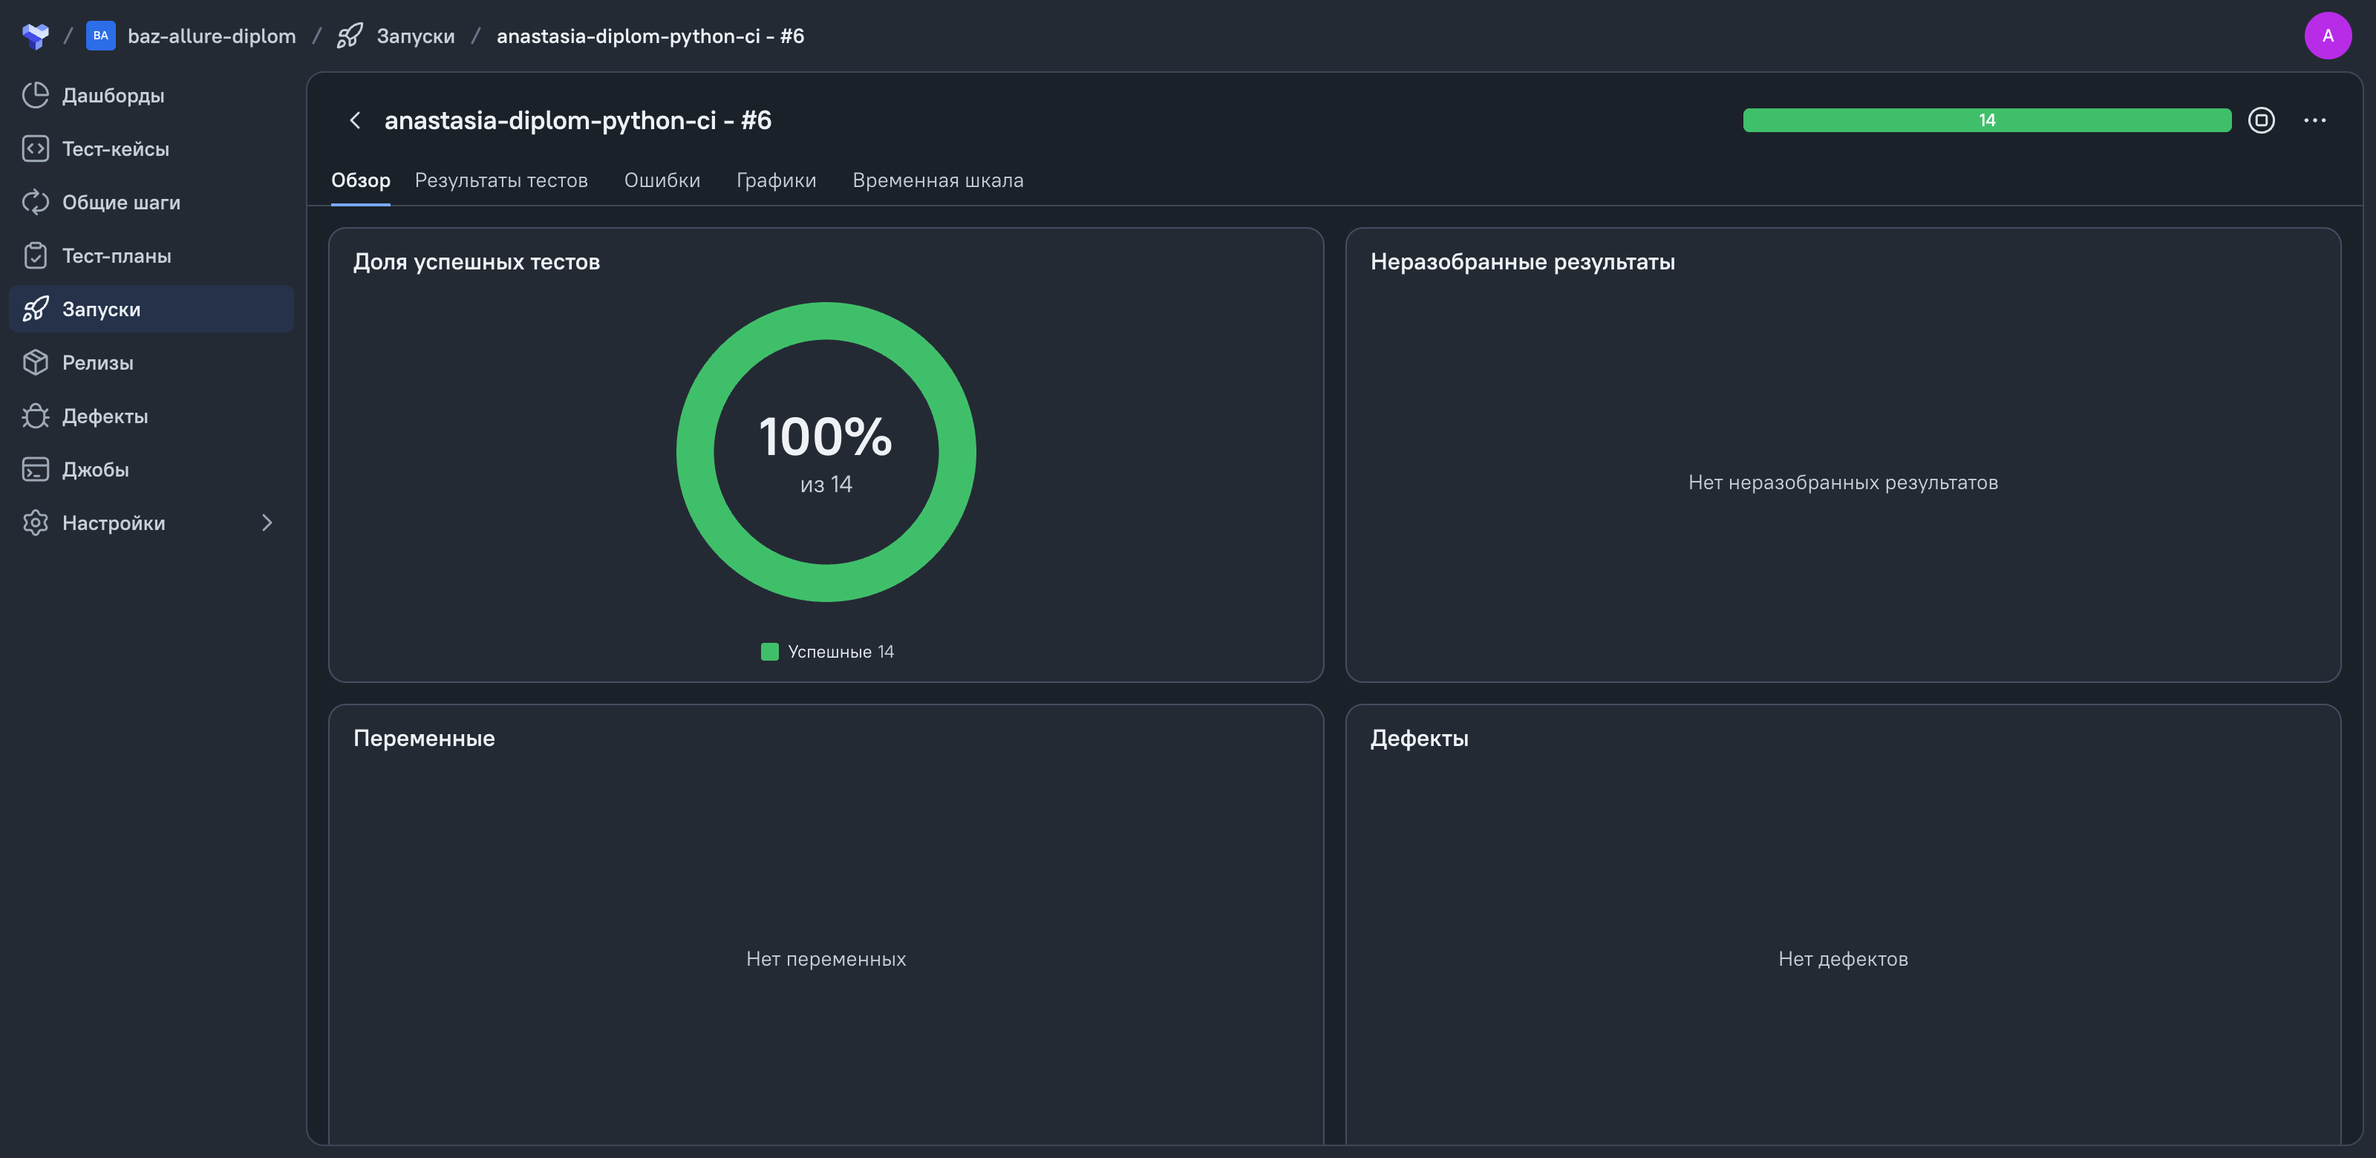
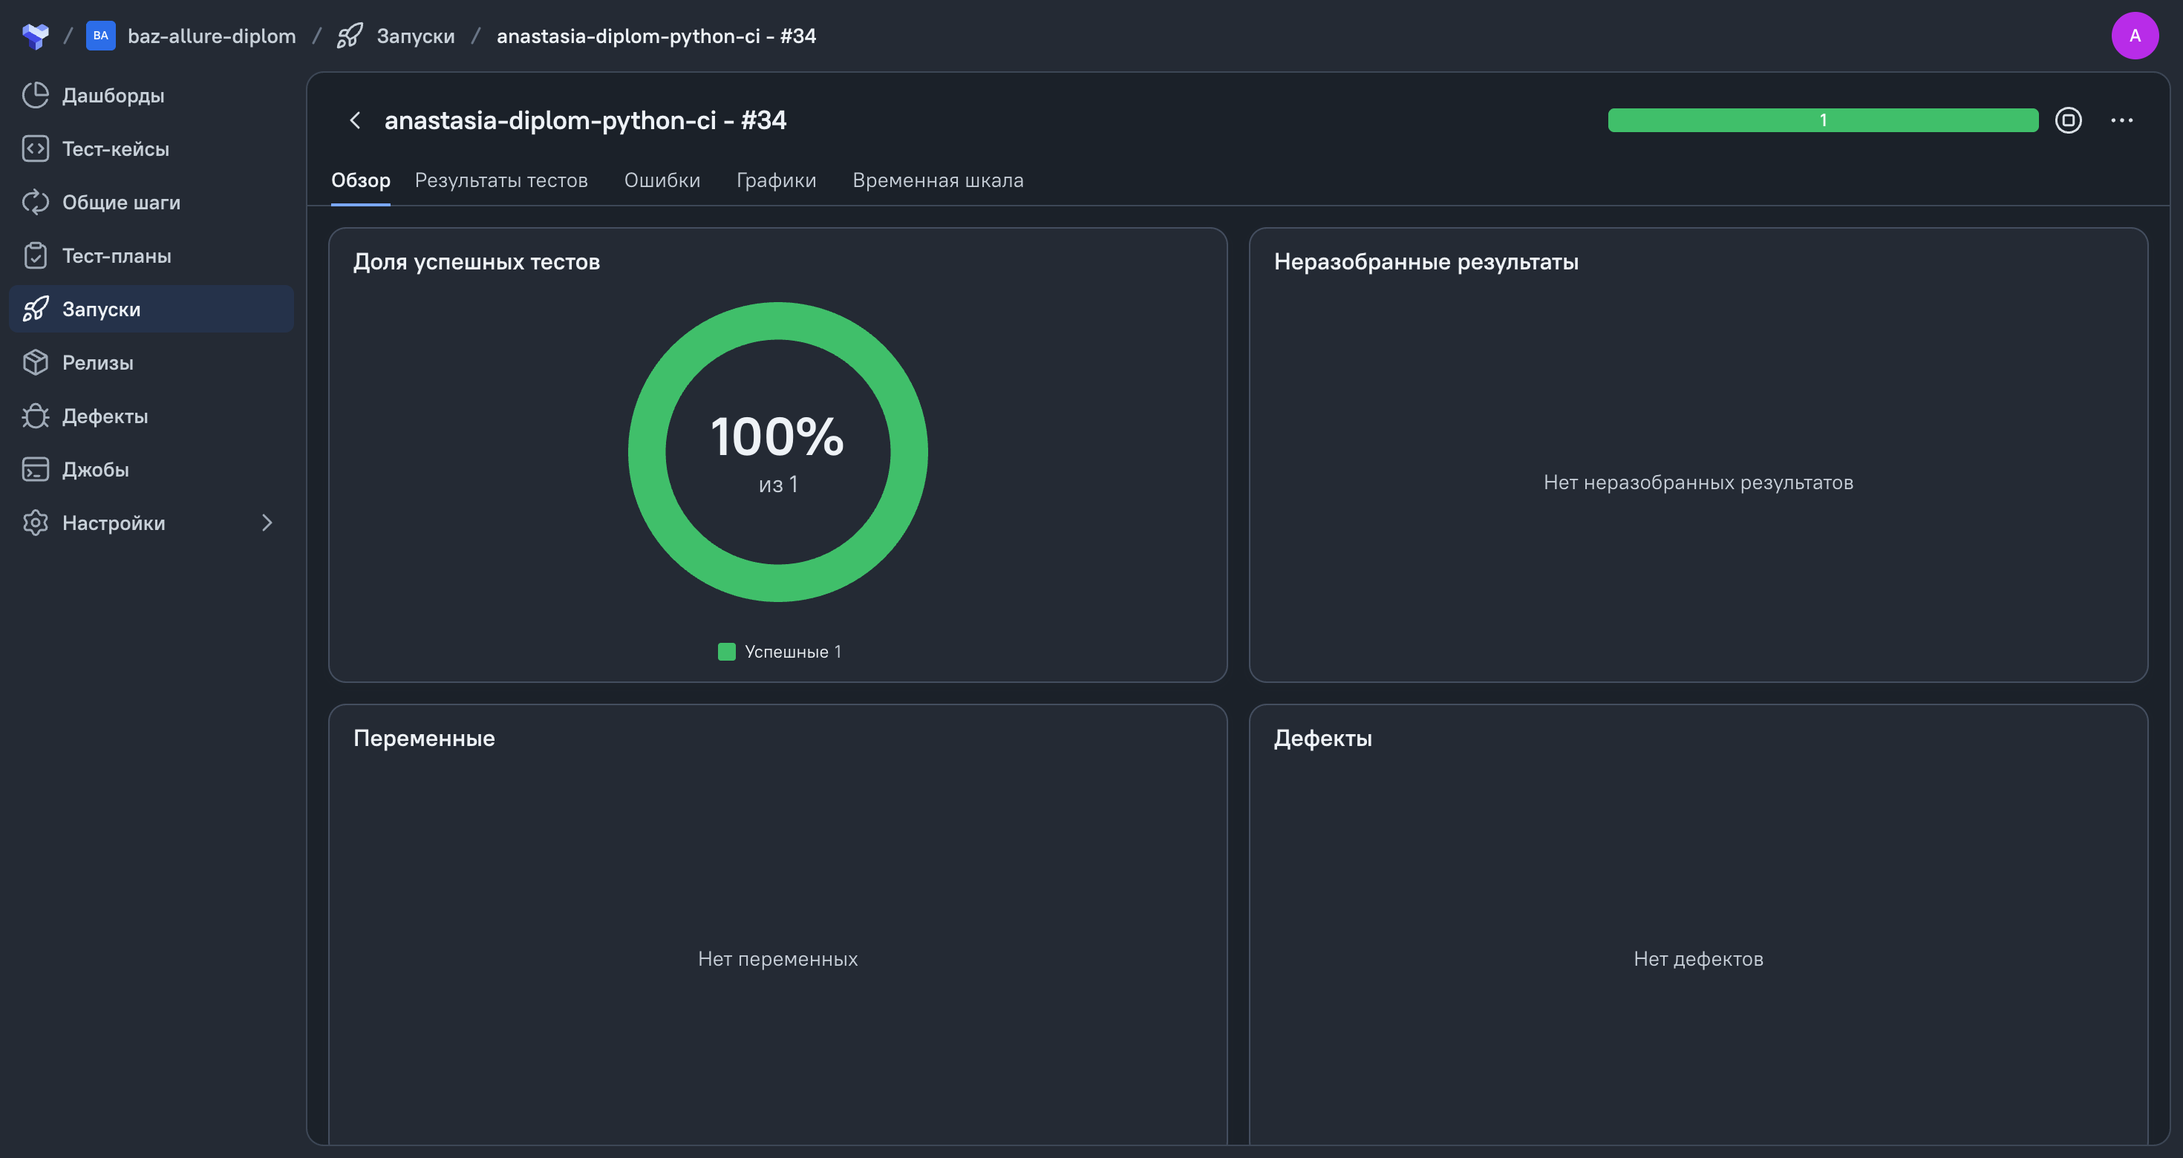
docs: refresh README and TestOps screenshots for Jenkins build 34

diff --git a/README.md b/README.md
@@ -2,8 +2,6 @@
 
 Автотесты интернет-магазина **Automation Exercise** и Android-приложения **Wikipedia sample**: 8 UI-, 6 API- и 3 Mobile-сценария. Используются Page Objects, подготовка пользователя через API, модели Pydantic и отчётность Allure.
 
-[Результаты и ограничения](#status)
-
 <p align="center">
   <img src="docs/images/tech/python.svg" width="44" height="44" alt="Python" title="Python"> 
   <img src="docs/images/tech/pytest.svg" width="44" height="44" alt="pytest" title="pytest"> 
@@ -69,9 +67,7 @@
 
 ## Как связаны API и UI
 
-Фикстура создаёт уникального пользователя через API; Page Object выполняет UI-вход и проверяет имя. После теста аккаунт удаляется, его отсутствие подтверждается независимым запросом по email. [Подробности очистки →](docs/running.md#api-checks)
-
-Pydantic-модели формируют тела запросов и проверяют ответы. HTTP-статус и бизнес-код проверяются отдельно; цены сравниваются через `Decimal`. Каждый тест использует отдельную сессию браузера или HTTP-клиента.
+Пользователь создаётся через API, затем Page Object выполняет UI-вход. После закрытия браузера аккаунт удаляется, его отсутствие проверяется по email. Pydantic проверяет структуру ответов; цены сравниваются через `Decimal`. [Подробности →](docs/running.md#api-checks)
 
 <a id="run"></a>
 
@@ -86,8 +82,7 @@ mkdir -p .tmp
 .venv/bin/python -m pip check
 ```
 
-Для разработки установите `requirements-dev.txt`: в нём закреплены Ruff, mypy,
-pre-commit и их зависимости. [Установка Git-hook и проверки качества →](docs/running.md#quality)
+[Зависимости для разработки и проверки качества →](docs/running.md#quality)
 
 **UI — локальный Chrome, 8 тестов:**
 
@@ -114,19 +109,7 @@ RUN_DIR=".artifacts/runs/mobile-$(date -u +%Y%m%dT%H%M%S)"
 
 API и локальный UI работают без `.env`. Для Selenoid и BrowserStack заполните корневой `.env` по образцу [.env.example](.env.example). Для Mobile нужен APK, заранее загруженный в App Automate. [Настройка BrowserStack →](docs/running.md#mobile-browserstack)
 
-**Все 17 сценариев в одном отчёте — локальный UI, API и BrowserStack:**
-
-```bash
-RUN_DIR=".artifacts/runs/full-$(date -u +%Y%m%dT%H%M%S)"
-mkdir -p "$RUN_DIR"
-.venv/bin/python -m pytest tests mobile --ui-mode=local -v \
-  --alluredir="$RUN_DIR/allure-results" --junitxml="$RUN_DIR/junit.xml" \
-  --log-file="$RUN_DIR/run.log"
-```
-
-Технические проверки обработки ошибок и отчётности запускаются командой `.venv/bin/python -B -m pytest checks -q`. Они работают без сети и не входят в 17 продуктовых сценариев.
-
-[Подробная настройка, общий запуск 14 тестов, Selenoid и команды Allure →](docs/running.md)
+[Настройка Jenkins и Selenoid, команды Allure →](docs/running.md)
 
 <a id="reporting"></a>
 
@@ -150,26 +133,28 @@ Allure содержит группы UI/API/Mobile, шаги, скриншоты
 
 ### Jenkins, Allure Report и TestOps
 
-[Задача Jenkins](https://jenkins.qa.guru/job/anastasia-diplom-python-ci/) предназначена для 8 UI-тестов через Selenoid и 6 API-тестов. [Сборка №9](https://jenkins.qa.guru/job/anastasia-diplom-python-ci/9/) от 13.11.2026 передала **14 успешных результатов** в [TestOps #57241](https://allure.qa.guru/launch/57241). Её коммит не подтверждён; этот запуск не считается проверкой текущей версии репозитория.
+[Задача Jenkins](https://jenkins.qa.guru/job/anastasia-diplom-python-ci/) поддерживает запуск 8 UI-тестов через Selenoid и 6 API-тестов; Mobile запускается отдельно. В [сборке №34](https://jenkins.qa.guru/job/anastasia-diplom-python-ci/34/) от **18.11.2026** выполнен только **UI-07: 1 passed, 15,06 с** на коммите [`c60a60d`](https://github.com/abzva/diplom_qa_python/commit/c60a60d568fc45e640c8103499b9d0ae3bc08368), Python **3.14.4**, Chrome **158.0.8127.36**.
 
-На учебном TestOps срок хранения успешных сценариев, фикстур и вложений — 24 часа; очистка применяется к закрытым запускам. Для длительного хранения сохраняйте исходные результаты и Allure Report отдельно. [Настройки отчётности →](docs/running.md#allure-report-и-testops)
+[Allure Report №34](https://jenkins.qa.guru/job/anastasia-diplom-python-ci/34/allure/) · [TestOps #57387](https://allure.qa.guru/launch/57387): три основных шага UI-07 и девять вложений, включая скриншот и видео.
 
-Ниже — сохранённые примеры из [запуска #56722](https://allure.qa.guru/launch/56722), сборка №6, скриншоты от 25.10.2026.
+Срок хранения подробностей успешных тестов в учебном TestOps — 24 часа; очистка применяется к закрытым запускам. [Хранение отчётов →](docs/running.md#allure-report-и-testops)
 
-[![Allure TestOps: 14 успешных тестов, 100%](docs/images/testops_launch_overview.png)](https://allure.qa.guru/launch/56722)
+Ниже — скриншоты [запуска #57387](https://allure.qa.guru/launch/57387), сборка №34, от **18.11.2026**.
+
+[![Allure TestOps: сборка №34, один успешный тест UI-07](docs/images/testops_launch_overview.png)](https://allure.qa.guru/launch/57387)
 
 <details>
 <summary><b>Шаги UI-теста, вложения и ручные кейсы</b></summary>
 
-**UI-06 — проверка двух разных товаров в корзине:**
+**UI-07 — количество 4 и сумма строки корзины:**
 
-[![UI-06: успешные шаги проверки корзины](docs/images/testops_ui_steps.png)](https://allure.qa.guru/launch/56722/tree/1153434)
+[![UI-07: три успешных основных шага](docs/images/testops_ui_steps.png)](https://allure.qa.guru/launch/57387/tree/1199086)
 
-**Вложения UI-06 на момент съёмки:** логи, HTML страницы, сведения о Selenoid, скриншот и видео.
+**Вложения UI-07:** лог, HTML, скриншот, видео и диагностика браузера.
 
-[![UI-06: диагностические вложения и видео Selenoid](docs/images/testops_ui_attachments.png)](https://allure.qa.guru/launch/56722/tree/1153434/attachments)
+[![UI-07: восемь вложений фикстур, включая скриншот и видео](docs/images/testops_ui_attachments.png)](https://allure.qa.guru/launch/57387/tree/1199086/attachments)
 
-**Ручные кейсы:**
+**Ручные кейсы — сохранённый пример от 25.10.2026:**
 
 [![MAN-01–MAN-05 в Allure TestOps](docs/images/testops_manual_cases.png)](https://allure.qa.guru/project/5398/test-cases)
 
@@ -181,18 +166,10 @@ Allure содержит группы UI/API/Mobile, шаги, скриншоты
 
 ## Результаты и ограничения
 
-| Проверка от 13.11.2026 | Результат | Версия и среда |
-|---|---|---|
-| UI + API + Mobile | **17 passed, 192,53 с** | Python 3.13.7, локальный Chrome, BrowserStack; версия до дополнительной проверки отсутствия аккаунта в API-05 |
-| API-05 отдельно | **1 passed, 2,22 с** | Текущая версия сценария: отсутствие аккаунта проверяется по email до cleanup |
-
-Полный прогон завершился без ошибок teardown и пропусков; отсутствие четырёх
-тестовых аккаунтов подтверждено, три Mobile-сессии закрыты. После изменения API-05
-полный набор не повторялся. Текущая версия ещё не подтверждена полным прогоном Jenkins.
+Сборка №34 подтверждает только UI-07. Полный набор на `c60a60d` ещё не подтверждён успешным прогоном.
 
 - Mobile поддерживает только BrowserStack App Automate; нужны доступ к сервису и загруженный APK.
-- В полном прогоне автоматические Mobile-видео были отклонены как некорректные MP4; скриншоты и исходный код страниц сохранены. Доступна [загрузка позднего видео](docs/running.md#позднее-видео-browserstack) без повторного теста.
-- Внешние стенды могут возвращать сетевые ошибки, HTML вместо JSON и HTTP 503; успешный запуск не гарантирует их доступность.
-- Пять ручных кейсов остаются в статусе «Черновик», полный ручной прогон не выполнен.
+- В Mobile-прогоне от 13.11.2026 видео не удалось прикрепить; скриншоты и исходный код страниц сохранены. Доступна [загрузка позднего видео](docs/running.md#позднее-видео-browserstack).
+- Доступность внешних учебных стендов влияет на результаты тестов.
 
 Для просмотра Jenkins, TestOps и BrowserStack может требоваться авторизация.

diff --git a/docs/images/README.md b/docs/images/README.md
@@ -7,13 +7,16 @@
 - `ui_catalog.png` — UI-03: каталог Automation Exercise.
 - `mobile_search.png` — MOBILE-01: поиск Python в Wikipedia sample, Samsung Galaxy S23 / Android 13.0. [Сессия BrowserStack](https://app-automate.browserstack.com/builds/08f506e141fa67697527228d24e16182ed0f5b34/sessions/0a0ce7880f0af9ea4a62b2705b7fd4a47c320612).
 
-## Allure TestOps · 25.10.2026
+## Allure TestOps · 18.11.2026
 
 Проект `baz-allure-diplom` (#5398).
 
-- `testops_launch_overview.png` — [обзор запуска #56722](https://allure.qa.guru/launch/56722), `anastasia-diplom-python-ci - #6`: 14 успешных результатов, 100%.
-- `testops_ui_steps.png` — [результат UI-06 #1153434](https://allure.qa.guru/launch/56722/tree/1153434), успешные шаги проверки корзины.
-- `testops_ui_attachments.png` — [вложения UI-06](https://allure.qa.guru/launch/56722/tree/1153434/attachments): логи браузера, HTML, сведения Selenoid, MP4 и PNG.
+- `testops_launch_overview.png` — [обзор запуска #57387](https://allure.qa.guru/launch/57387), `anastasia-diplom-python-ci - #34`: один успешный UI-07, 100% от одного теста. [Jobrun #57036](https://allure.qa.guru/jobrun/57036), коммит `c60a60d568fc45e640c8103499b9d0ae3bc08368`.
+- `testops_ui_steps.png` — [результат UI-07 #1199086](https://allure.qa.guru/launch/57387/tree/1199086), три успешных основных шага проверки количества и суммы строки корзины.
+- `testops_ui_attachments.png` — [вложения UI-07](https://allure.qa.guru/launch/57387/tree/1199086/attachments): восемь вложений фикстур, включая HTML, PNG, MP4, сведения Selenoid и фильтрованную диагностику. Отдельно у теста есть вложение `log`, всего девять. Chrome loading trace содержит 398 событий; Selenoid driver log содержит статус `no_command_events`, а не журнал команд.
+
+## Ручные кейсы · 25.10.2026
+
 - `testops_manual_cases.png` — [пять ручных кейсов](https://allure.qa.guru/project/5398/test-cases), #54176–54180. Открыт MAN-01, статус «Черновик».
 
 [Результаты запусков и ограничения материалов](../../README.md#status). Скриншоты сохраняют состояние отчётов на указанную дату; подробности в TestOps могут быть удалены политикой хранения.
